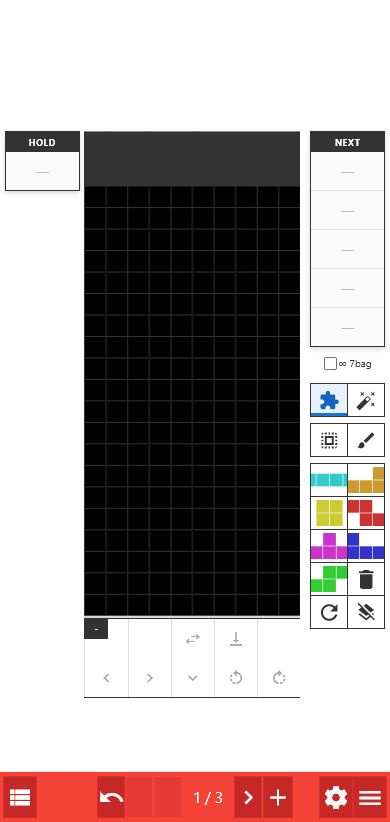
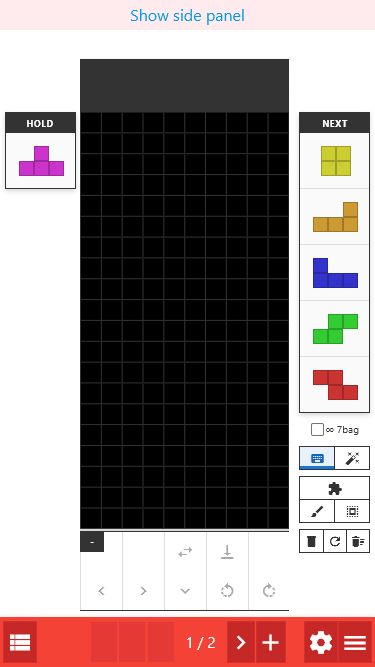
Update Japanese and English user manuals
Document INPUT queue workflows, PAINT palette settings, and queue-step undo behavior. Refresh matching Japanese and English screenshots.\n\nModel: GPT-5

diff --git a/resources/manual/index.html b/resources/manual/index.html
@@ -62,7 +62,7 @@
 
   <section id="edit">
     <h2>盤面を編集する</h2>
-    <figure class="shot"><img src="./images/editor.png" alt="Edit画面。盤面の右に取り込み・書き出しを分けた操作レール、盤面下にPAINTの操作トレイがあります。"><figcaption>Edit。右側のレールで取り込み・書き出し、ページ操作、編集モード、パレットを選び、盤面下の操作トレイでモードごとの操作を行います。</figcaption></figure>
+    <figure class="shot"><img src="./images/editor.png" alt="Edit画面。盤面の右に取り込み・書き出しを分けた操作レール、盤面下にPAINTの操作トレイがあります。"><figcaption>Edit。右側のレールで取り込み・書き出し、ページ操作、PIECE・INPUTを含む編集モード、パレットを選び、盤面下の操作トレイでモードごとの操作を行います。</figcaption></figure>
 
     <h3>PAINTで描く</h3>
     <div class="cards">
@@ -91,25 +91,27 @@
       </table>
     </div>
 
-    <h3>PAINT・PIECE・SELECTを切り替える</h3>
+    <h3>PAINT・PIECE・INPUT・SELECTを切り替える</h3>
     <div class="table-wrap">
       <table>
         <thead><tr><th>モード</th><th>主な操作</th></tr></thead>
         <tbody>
           <tr><td>PAINT</td><td>ペン、消しゴム、塗りつぶし、行を塗る。パレットはブロック色として表示されます。</td></tr>
           <tr><td>PIECE</td><td>パレットからミノを出現させ、Hold、ハードドロップ、左右移動、ソフトドロップ、回転を操作します。左右移動の長押しは端まで移動します。</td></tr>
+          <tr><td>INPUT</td><td>キューのCURRENTを直接操作します。HOLD・NEXTを表示し、パレットは空セル・灰色・RESETだけになります。</td></tr>
           <tr><td>SELECT</td><td>盤面をドラッグして矩形選択し、コピー、切り取り、左右回転、反転を行います。</td></tr>
         </tbody>
       </table>
     </div>
     <p class="note">選択中のモードボタンをもう一度押すと、盤面下の操作トレイを表示／非表示にできます。トレイが収まらないときは横スクロールできます。</p>
 
-    <h3>PIECEのHOLDとNEXT</h3>
-    <figure class="shot"><img src="./images/piece-queue.png" alt="PIECEモード。盤面左にHOLD、右に近い順のNEXTが表示されています。"><figcaption>PIECEではコメントのキュー情報をHOLDとNEXTとして盤面の横に表示します。</figcaption></figure>
+    <h3>INPUTとPIECEのHOLD・NEXT</h3>
+    <figure class="shot"><img src="./images/piece-queue.png" alt="INPUTモード。盤面左にHOLD、右に近い順のNEXTが表示されています。"><figcaption>INPUTではコメントのキュー情報をHOLDとNEXTとして盤面の横に表示し、CURRENTを直接操作できます。</figcaption></figure>
     <ul>
-      <li><strong>HOLD / NEXT：</strong>PIECEのときだけ表示されます。NEXTは近いピースから上へ並びます。</li>
+      <li><strong>INPUT：</strong>レールの<strong>INPUT</strong>から開きます。キューのCURRENTを出現させて操作し、NEXTは近いピースから上へ並びます。</li>
+      <li><strong>HOLD / NEXT：</strong>PIECEとINPUTで表示されます。</li>
       <li><strong>ピースキュー設定：</strong>HOLDまたはNEXTを選ぶと開きます。入力内容はページコメントへ <code>#Q=[](I)OTLJSZ</code> のような形式で保存されます。</li>
-      <li><strong>パレット：</strong>ミノを選ぶとSPAWNします。ごみ箱はSPAWNミノの削除、RESPAWNは位置と向きのリセット、<strong>∞ 7bag</strong>はキューの自動生成を切り替えます。</li>
+      <li><strong>パレット：</strong>PIECEではミノを選ぶとSPAWNします。ごみ箱はSPAWNミノの削除、RESPAWNは位置と向きのリセット、<strong>∞ 7bag</strong>はキューの自動生成を切り替えます。</li>
     </ul>
 
     <h3>SELECTで範囲を再利用する</h3>
@@ -135,7 +137,7 @@
     <div class="cards">
       <div class="card"><h3>前後へ移動</h3><p>下部の左右ボタンで移動します。長押しすると最初または最後のページへジャンプします。</p></div>
       <div class="card"><h3>途中へ追加</h3><p>次ページがある状態でも <strong>+</strong> や <strong>挿入</strong> を使えます。新しいページは現在ページと次ページの間に入ります。</p></div>
-      <div class="card"><h3>元に戻す</h3><p>Undo/Redoで直前の編集を戻したりやり直したりできます。画面モードをまたぐ編集でも履歴が維持されます。</p></div>
+      <div class="card"><h3>元に戻す</h3><p>Undo/Redoで直前の編集を戻したりやり直したりできます。INPUTでNEXTキューを操作しているときは、ミノ1個分の操作をまとめて戻したりやり直したりできます。画面モードをまたぐ編集でも履歴が維持されます。</p></div>
       <div class="card"><h3>コメント</h3><p>盤面下の欄へ説明やNEXTキューを書けます。Listでは全ページを見ながら編集・一括置換できます。</p></div>
     </div>
     <div class="tip warn"><strong>先頭ページの情報：</strong>色やキックテーブルなど一部の設定はテト譜全体に適用されます。先頭ページが入れ替わる操作でも、これらの設定は自動で引き継がれます。</div>
@@ -292,7 +294,7 @@
       <table>
         <thead><tr><th>タブ</th><th>主な設定</th></tr></thead>
         <tbody>
-          <tr><td>フィールド</td><td><strong>FLAGSを表示</strong>、<strong>黒ペイントのドラッグでSPAWNミノも削除する</strong>、<strong>+ボタンでグレー化</strong>、<strong>ハードドロップではグレー化しない</strong>、<strong>ブロック表面のマーク</strong></td></tr>
+          <tr><td>フィールド</td><td><strong>FLAGSを表示</strong>、<strong>消しゴムのドラッグでSPAWNミノも削除する</strong>、<strong>PAINTパレットをミノ画像で表示</strong>、<strong>+ボタンでグレー化</strong>、<strong>ハードドロップではグレー化しない</strong>、<strong>ブロック表面のマーク</strong></td></tr>
           <tr><td>リスト/ツリー</td><td><strong>上部の空白行を省略</strong>、<strong>+ボタンでグレー化</strong>、<strong>サイドパネルを表示（PC）</strong></td></tr>
           <tr><td>ショートカット</td><td><strong>ショートカットラベル表示</strong>、パレット・編集用・ピースショートカット</td></tr>
           <tr><td>ピース</td><td><strong>ピースショートカット</strong>、<strong>ゴースト表示</strong>、<strong>キックテーブル</strong>、<strong>ARR</strong>・<strong>DAS</strong>・<strong>DCD</strong>・<strong>SDF</strong>（フレーム単位）</td></tr>
@@ -304,6 +306,7 @@
       <li><strong>ショートカットラベル表示：</strong>各ボタンの右下に割り当てキーを表示します。</li>
       <li><strong>キーの変更：</strong>対象欄を選んでキーを押します。Backspaceで割り当てを解除できます。</li>
       <li><strong>キックテーブル：</strong>「クラシック」「SRS」「SRS+」から選びます。SRS+では180度回転も利用できます。</li>
+      <li><strong>PAINTパレットをミノ画像で表示：</strong>オンにすると、PAINTの色見本を対応するミノ画像で表示します。PIECEのパレット表示には影響しません。</li>
       <li><strong>初期画面：</strong>起動時に開くReader・Edit・List・Tree画面を選びます。ツリーデータ(#TREE)を含むテト譜をTree画面で開く設定もあります。</li>
       <li><strong>+ボタンでグレー化：</strong>フィールドとリスト/ツリーのどちらのタブから変更しても同じ設定へ反映されます。</li>
       <li><strong>サイドパネル：</strong>「サイドパネルを表示（PC）」でEdit左側のList/Treeパネルを有効にします。</li>

diff --git a/resources/manual/en/index.html b/resources/manual/en/index.html
@@ -62,7 +62,7 @@
 
   <section id="edit">
     <h2>Edit the field</h2>
-    <figure class="shot"><img src="../images/en/editor.png" alt="Edit screen with the Import and Export rail beside the field and the PAINT context tools below it."><figcaption>Edit. Use the rail on the right for Import/Export, page actions, editing modes, and the palette. The context tools below the field change with the selected mode.</figcaption></figure>
+    <figure class="shot"><img src="../images/en/editor.png" alt="Edit screen with the Import and Export rail beside the field and the PAINT context tools below it."><figcaption>Edit. Use the rail on the right for Import/Export, page actions, editing modes including PIECE and INPUT, and the palette. The context tools below the field change with the selected mode.</figcaption></figure>
 
     <h3>Draw with PAINT</h3>
     <div class="cards">
@@ -91,25 +91,27 @@
       </table>
     </div>
 
-    <h3>Switch between PAINT, PIECE, and SELECT</h3>
+    <h3>Switch between PAINT, PIECE, INPUT, and SELECT</h3>
     <div class="table-wrap">
       <table>
         <thead><tr><th>Mode</th><th>Main actions</th></tr></thead>
         <tbody>
           <tr><td>PAINT</td><td>Use Pen, Erase, Fill, and Fill row. The palette shows block colors.</td></tr>
           <tr><td>PIECE</td><td>Spawn pieces from the palette, then use Hold, hard drop, horizontal movement, soft drop, and rotation. Long-press horizontal movement to move to the edge.</td></tr>
+          <tr><td>INPUT</td><td>Directly operate the queue's CURRENT piece. HOLD and NEXT are shown, and the palette contains only Empty, Gray, and RESET.</td></tr>
           <tr><td>SELECT</td><td>Drag across the field to select a rectangle, then copy, cut, rotate, or mirror it.</td></tr>
         </tbody>
       </table>
     </div>
     <p class="note">Press the selected mode button again to show or hide the context tools below the field. Scroll the tray horizontally when the available width is too small.</p>
 
-    <h3>HOLD and NEXT in PIECE</h3>
-    <figure class="shot"><img src="../images/en/piece-queue.png" alt="PIECE mode with HOLD on the left and NEXT pieces in order on the right."><figcaption>In PIECE, queue information from the page comment appears beside the field as HOLD and NEXT.</figcaption></figure>
+    <h3>HOLD and NEXT in INPUT and PIECE</h3>
+    <figure class="shot"><img src="../images/en/piece-queue.png" alt="INPUT mode with HOLD on the left and NEXT pieces in order on the right."><figcaption>In INPUT, queue information from the page comment appears beside the field as HOLD and NEXT, and you directly operate CURRENT.</figcaption></figure>
     <ul>
-      <li><strong>HOLD / NEXT:</strong> These appear only in PIECE. NEXT is listed upward from the nearest piece.</li>
+      <li><strong>INPUT:</strong> Open it from <strong>INPUT</strong> on the rail. Spawn and operate the queue's CURRENT piece; NEXT is listed upward from the nearest piece.</li>
+      <li><strong>HOLD / NEXT:</strong> These appear in PIECE and INPUT.</li>
       <li><strong>Piece queue settings:</strong> Select HOLD or NEXT to open the settings. The input is stored in the page comment as queue data such as <code>#Q=[](I)OTLJSZ</code>.</li>
-      <li><strong>Palette:</strong> Select a piece to spawn it. Delete removes a SPAWN piece, <strong>RESPAWN</strong> resets its position and rotation, and <strong>∞ 7bag</strong> toggles automatic queue generation.</li>
+      <li><strong>Palette:</strong> In PIECE, select a piece to spawn it. Delete removes a SPAWN piece, <strong>RESPAWN</strong> resets its position and rotation, and <strong>∞ 7bag</strong> toggles automatic queue generation.</li>
     </ul>
 
     <h3>Reuse a region with SELECT</h3>
@@ -135,7 +137,7 @@
     <div class="cards">
       <div class="card"><h3>Move between pages</h3><p>Use the left and right buttons at the bottom. Long-press to jump to the first or last page.</p></div>
       <div class="card"><h3>Insert in the middle</h3><p>Use <strong>+</strong> or <strong>Insert</strong> even when a next page already exists. The new page is inserted between the current and next pages.</p></div>
-      <div class="card"><h3>Undo and redo</h3><p>Undo or redo the latest edit. History is preserved when editing across screen modes.</p></div>
+      <div class="card"><h3>Undo and redo</h3><p>Undo or redo the latest edit. While operating a NEXT queue in INPUT, Undo and Redo move across one consumed piece at a time. History is preserved when editing across screen modes.</p></div>
       <div class="card"><h3>Comments</h3><p>Write explanations or NEXT queue data in the field below the board. In List, edit comments while viewing all pages or replace text in bulk.</p></div>
     </div>
     <div class="tip warn"><strong>First-page information:</strong> Some settings, such as colors and the kick table, apply to the entire fumen. These settings carry forward automatically even when the first page is replaced.</div>
@@ -292,7 +294,7 @@
       <table>
         <thead><tr><th>Tab</th><th>Main settings</th></tr></thead>
         <tbody>
-          <tr><td>Field</td><td><strong>Show FLAGS</strong>, <strong>Delete spawn mino when paint drag passes over it</strong>, <strong>Gray out with + button</strong>, <strong>Do not gray out on hard drop</strong>, and <strong>Block surface marker</strong></td></tr>
+          <tr><td>Field</td><td><strong>Show FLAGS</strong>, <strong>Delete spawn mino when paint drag passes over it</strong>, <strong>Show PAINT palette as mino images</strong>, <strong>Gray out with + button</strong>, <strong>Do not gray out on hard drop</strong>, and <strong>Block surface marker</strong></td></tr>
           <tr><td>List &amp; Tree</td><td><strong>Trim top blank</strong>, <strong>Gray out with + button</strong>, and <strong>Show side panel (PC)</strong></td></tr>
           <tr><td>Shortcuts</td><td><strong>Show shortcut labels</strong>, palette, edit, and piece shortcuts</td></tr>
           <tr><td>Piece</td><td><strong>Piece Shortcuts</strong>, <strong>Show the ghost</strong>, <strong>Kick table</strong>, and ARR, DAS, DCD, and SDF (frame units)</td></tr>
@@ -304,6 +306,7 @@
       <li><strong>Show shortcut labels:</strong> Display the assigned key at the bottom right of each button.</li>
       <li><strong>Change a key:</strong> Select a field and press a key. Press Backspace to clear the assignment.</li>
       <li><strong>Kick table:</strong> Choose <strong>Classic</strong>, <strong>SRS</strong>, or <strong>SRS+</strong>. SRS+ also supports 180° rotation.</li>
+      <li><strong>Show PAINT palette as mino images:</strong> Show PAINT color swatches as their corresponding mino images. It does not change the PIECE palette.</li>
       <li><strong>Initial screen:</strong> Choose Reader, Edit, List, or Tree as the screen opened at startup. You can also open fumen data containing <code>#TREE</code> in Tree.</li>
       <li><strong>Gray out with + button:</strong> Changing this in either Field or List &amp; Tree updates the same setting.</li>
       <li><strong>Side panel:</strong> Enable the List or Tree panel beside Edit with <strong>Show side panel (PC)</strong>.</li>
